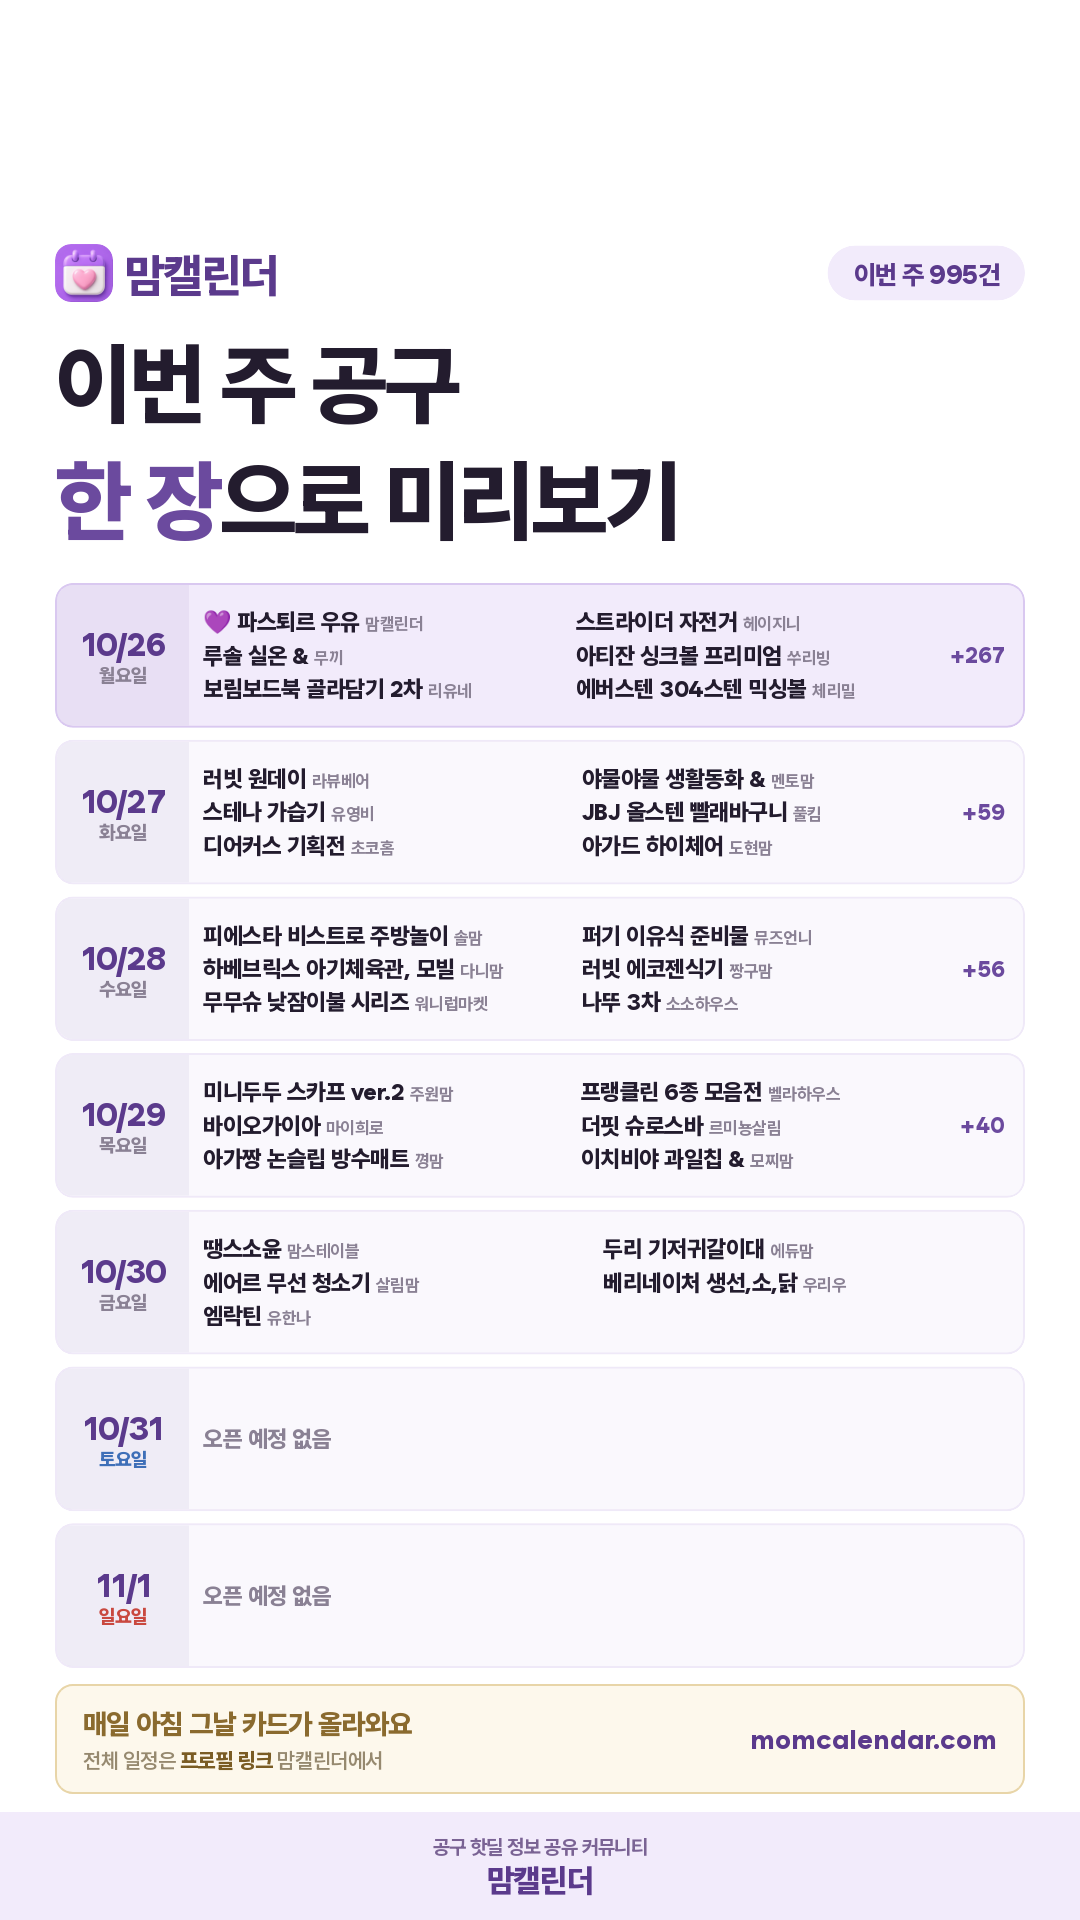
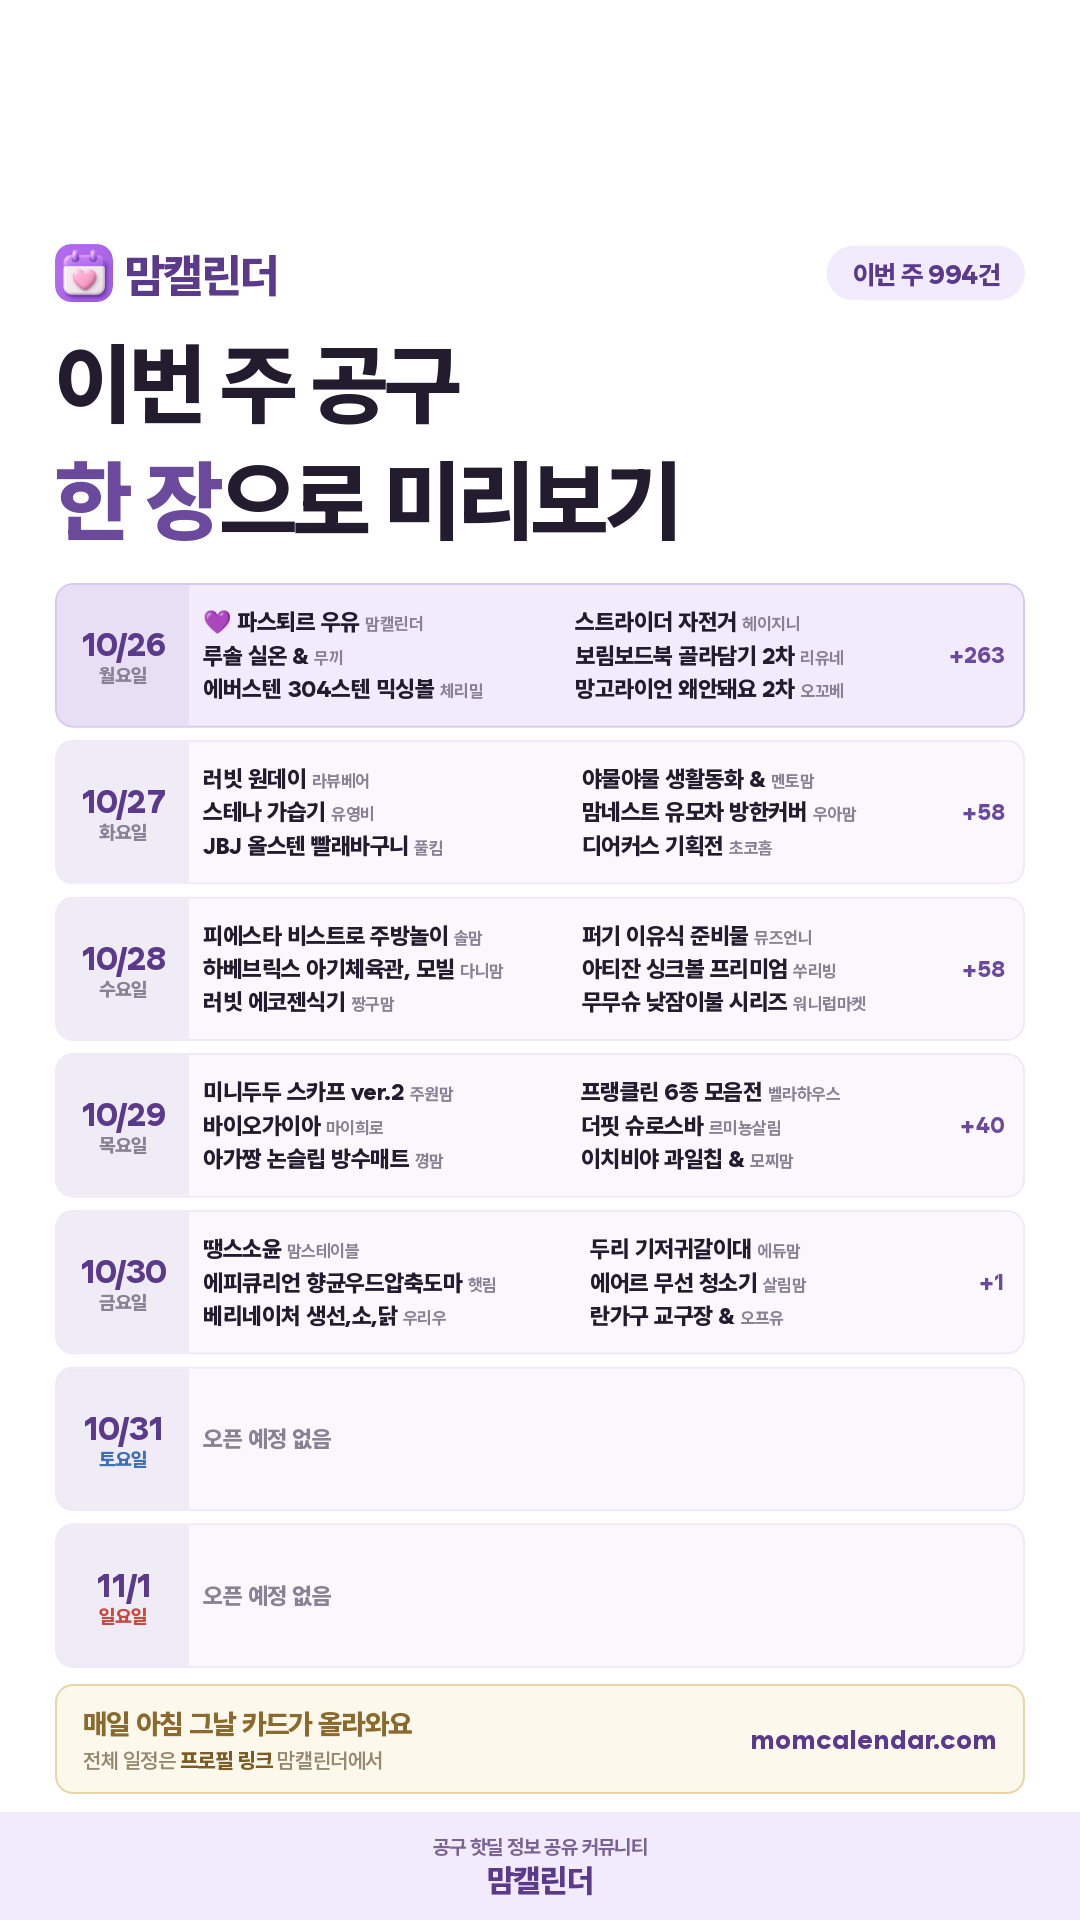
아침 인스타 카드 (2026-10-26)

diff --git a/daily/2026-10-26.html b/daily/2026-10-26.html
@@ -19,7 +19,7 @@ textarea{width:100%;height:260px;border:1px solid #E3DCEF;border-radius:10px;pad
 .todo p{font-size:12.5px;color:#6B6379;line-height:1.75;margin-top:6px}
 .todo a{color:#5B2E8C;font-weight:700}
 </style></head><body>
-<div class="hd"><div class="wrap"><h1>10월 26일(월) 인스타 카드</h1><p>주간예고 · week 995</p></div></div>
+<div class="hd"><div class="wrap"><h1>10월 26일(월) 인스타 카드</h1><p>주간예고 · week 994</p></div></div>
 <div class="wrap">
   
   <div class="card"><img src="./2026-10-26.png" alt="오늘 공구 카드"></div>
@@ -27,7 +27,7 @@ textarea{width:100%;height:260px;border:1px solid #E3DCEF;border-radius:10px;pad
   <div class="card">
     <textarea id="cap" readonly>이번 주 뭐가 열리는지 요일별로 정리했어요
 
-이번 주(10/26~11/1) 오픈 예정 995건
+이번 주(10/26~11/1) 오픈 예정 994건
 
 ━━━━━━━━━━━━━━
 
@@ -35,32 +35,31 @@ textarea{width:100%;height:260px;border:1px solid #E3DCEF;border-radius:10px;pad
 · 파스퇴르 우유 — 맘캘린더 @momcal_
 · 스트라이더 자전거 — 헤이지니
 · 루솔 실온 &amp; 냉장 이유식, 아기반찬 — 무끼
-· 아티잔 싱크볼 프리미엄 모델 — 쑤리빙
 · 보림보드북 골라담기 2차 — 리유네
 · 에버스텐 304스텐 믹싱볼 — 체리밀
 · 망고라이언 왜안돼요 2차 — 오꼬베
 · 네오플램 베큐씰 진공 밀폐용기 — 이지피지
-…외 265건
+…외 262건
 
 🗓 10/27(화) 오픈
 · 러빗 원데이 — 라뷰베어
 · 야물야물 생활동화 &amp; PLUS — 멘토맘
 · 스테나 가습기 — 유영비
+· 맘네스트 유모차 방한커버 + 아기띠 워머 — 우아맘
 · JBJ 올스텐 빨래바구니 (청담,메종드) — 풀킴
 · 디어커스 기획전 — 초코홈
 · 아가드 하이체어 — 도현맘
-· 맘네스트 유모차 방한커버 + 아기띠 워머 — 우아맘
-…외 58건
+…외 57건
 
 🗓 10/28(수) 오픈
 · 피에스타 비스트로 주방놀이 — 솔맘
 · 퍼기 이유식 준비물 모음전 — 뮤즈언니
 · 하베브릭스 아기체육관, 모빌 — 다니맘
+· 아티잔 싱크볼 프리미엄 모델 — 쑤리빙
 · 러빗 에코젠식기 — 짱구맘
 · 무무슈 낮잠이불 시리즈 — 워니럽마켓
 · 나뚜 3차 — 소소하우스
-· 스테이프리 홈캠 — 페이보릿
-…외 55건
+…외 57건
 
 🗓 10/29(목) 오픈
 · 미니두두 스카프 ver.2 — 주원맘
@@ -69,15 +68,15 @@ textarea{width:100%;height:260px;border:1px solid #E3DCEF;border-radius:10px;pad
 · 더핏 슈로스바 — 르미뇽살림
 · 아가짱 논슬립 방수매트 — 꼉맘
 · 이치비야 과일칩 &amp; 요거트 까까 — 모찌맘
-· 엔에프락 트라이탄 밀폐용기 — 라온살림
-· 음식물처리기 — 반채영
-…외 38건
+…외 40건
 
 🗓 10/30(금) 오픈
 · 땡스소윤 — 맘스테이블
 · 두리 기저귀갈이대 — 에듀맘
+· 에피큐리언 향균우드압축도마 — 햇림
 · 에어르 무선 청소기 — 살림맘
 · 베리네이처 생선,소,닭 — 우리우
+· 란가구 교구장 &amp; 회전책장 — 오프유
 · 엠락틴 — 유한나
 
 
@@ -101,7 +100,7 @@ textarea{width:100%;height:260px;border:1px solid #E3DCEF;border-radius:10px;pad
 ⚠ 공구 일정은 판매자 사정에 따라 변경·조기마감될 수 있어요.
 
 #맘캘린더 #공구일정 #육아공구일정 #10월26일공구 #기저귀 #살림템 #공구소식 #아기간식 #공구마감 #수유용품 #공구추천 #스트라이더 #주니 #탁가온</textarea>
-    <div class="meta">1300자</div>
+    <div class="meta">1288자</div>
     <button class="btn btn2" onclick="cp('cap','캡션')">캡션 복사</button>
   </div>
   <div class="card">
@@ -133,12 +132,12 @@ https://open.kakao.com/o/gr2kJhCh
 
 ─────────────
 
-10월 26일(월), 인스타 셀러들이 오늘 여는 공구 460건을 모아왔어요.
-오늘 끝나는 공구가 216건이라 아래쪽도 같이 확인해 보세요.
+10월 26일(월), 인스타 셀러들이 오늘 여는 공구 454건을 모아왔어요.
+오늘 끝나는 공구가 214건이라 아래쪽도 같이 확인해 보세요.
 
 오늘 공구 브랜드: NEW · 가이타이너 · 데코아르 · 루프트럼 · 매직쉐프 · 무아스 · 믹서기 · 바이타믹스 · 블렌더의 · 스팀 · 신일 · 아기드라이기 · 이노크아든 · 이지클린 · 초경량 · 캐논 · 케틀팟 · 코닥 · 탄소매트 · 패존 · 한경희 · 한일 · 헤이홈 · RU21 · 가꾸기 · 감비환 · 그로우미 · 뉴트리폰스 · 닥터라인 · 닥터파이토 · 담백하루 · 더리틀스 · 더블핏 · 레디바이옴 · 롱비다 · 리얼K · 리즈파이 · 망고맛 · 메가오메가 · 바이오메라
 
-■ 오늘 시작하는 공구 460건
+■ 오늘 시작하는 공구 454건
 
 [육아]
 · 247 큐브 — 벨리맘 (~11/1 마감)
@@ -154,7 +153,7 @@ https://open.kakao.com/o/gr2kJhCh
 · 낫또 네임테이프 — 여울맘 (~10/28 마감)
 · 낭만강아지 봉봉 — 위캔드홈 (~10/29 마감)
 · 내 친구 빠방이 + 탈것세트 — 럭키지후 (~10/28 마감)
-· 넘버블록스 보드북 — 워니럽마켓 (~11/2 마감)
+· 넘버블록스 보드북 — 워니럽마켓 (~10/29 마감)
 · 노벨하우스 오징어팝콘 소프트블럭 — 이현맘 (~10/30 마감)
 · 놈캐리어 — _juju.mom_ (~10/29 마감)
 · 담은수 — 율아맘 (~10/29 마감)
@@ -188,7 +187,7 @@ https://open.kakao.com/o/gr2kJhCh
 · 몽키버니 턱받이 — 미니똘 (~10/28 마감)
 · 문제집대신,, 도형보드게임 — 띠오맘 (~10/31 마감)
 · 물 아저씨 특별판 — 서점맘 (~10/29 마감)
-· 미래엔 하루 한 장 — 카롱맘 (~10/29 마감)
+· 미래엔 하루 한 장 — 카롱맘 (~11/2 마감)
 · 미미뻥 — 뽀민맘 (~10/29 마감)
 · 미소다 냉동·실온 유아식품 — candy_mom (~10/28 마감)
 · 미소다 냉동·실온 유아식품 — 캔디맘 (~10/28 마감)
@@ -229,7 +228,7 @@ https://open.kakao.com/o/gr2kJhCh
 · 아가드 토스비 하이체어 — 에듀맘 (~10/28 마감)
 · 아기상어 배변팬티 2차 — 주원맘 (~10/29 마감)
 · 아기상어 빛 테이블 — 건이맘 (~10/29 마감)
-· 아넬라 퓨레 — 결무맘 (~10/26 마감)
+· 아넬라 퓨레 — 결무맘 (~10/31 마감)
 · 아띠래빗 트립트랩 방석 — 우연맘 (~10/28 마감)
 · 아띠빠스 핸드머프, 바라클라바 — 우리우 (~10/29 마감)
 · 아람전래동화 요술항아리 — 리리맘 (~10/29 마감)
@@ -244,10 +243,9 @@ https://open.kakao.com/o/gr2kJhCh
 · 오가닉스 퓨레 — laego2025 (~10/29 마감)
 · 오가닉스퓨레 — 다미랜드 (~10/30 마감)
 · 오보기 수유앞치마 2차 — 다니맘 (~10/28 마감)
-· 올유베베 — 홍익마미 (~10/28 마감)
 · 올유베베 — 베베홈설 (~10/29 마감)
+· 올유베베 — 홍익마미 (~10/28 마감)
 · 올유베베 고쟁이, 모달티, 후드집업 — 다미랜드 (~10/29 마감)
-· 요미몬 플레이돌 — 푸푸네집 (~10/28 마감)
 · 인체 &amp; 인성 동화 — 토비맘 (~10/30 마감)
 · 일루와 아기텐트 — 소이맘 (~10/29 마감)
 · 자연동화 곡물도자기식판 — montesoeun (~10/28 마감)
@@ -263,7 +261,7 @@ https://open.kakao.com/o/gr2kJhCh
 · 코호코호 2차 신상 — 솔맘 (~10/29 마감)
 · 키즈엠 골라담기 — 우주맘마 (~10/29 마감)
 · 킨더픽 애플박스 — 푸푸네집 (~10/29 마감)
-· 킨즈 몬테소리 원목교구 — 도아로운 (~10/31 마감)
+· 킨즈 몬테소리 원목교구 — 도아로운 (~10/28 마감)
 · 탁가온 2차 — 페이보릿 (~10/28 마감)
 · 탁가온 에코젠 — 콩콩맘(이은지) (~10/29 마감)
 · 탁가온 에코젠 식기모음전 — 모찌맘 (~10/28 마감)
@@ -329,7 +327,6 @@ https://open.kakao.com/o/gr2kJhCh
 · 신경욱 작가 그릇 — 마마조 (~10/30 마감)
 · 아르코스 — 김하연 (~10/30 마감)
 · 아이앤어스 캡슐세제 2종 — 모꼬맘 (~10/29 마감)
-· 아티잔 싱크볼 프리미엄 모델 — 쑤리빙 (~10/30 마감)
 · 에버스텐 304스텐 믹싱볼 — 체리밀 (~10/31 마감)
 · 엔데이지홈 올인원 매트리스커버 — 헬룸 (~10/31 마감)
 · 오베 소창 수건 — artist._.mom (~10/29 마감)
@@ -339,7 +336,6 @@ https://open.kakao.com/o/gr2kJhCh
 · 윗클 청소포 &amp; 세정티슈 — 뭉실맘 (~10/29 마감)
 · 이지앤프리 이유식 보관용기 — 일벙부부 (~10/30 마감)
 · 주니 원터치 텀블러 — 이니맘 (~10/28 마감)
-· 카라멜코티지 2027 달력 — 넛베리홈 (~10/28 마감)
 · 코즈코즈 두부토퍼 — 쭈니놀이터 (~11/1 마감)
 · 코첼라 세라믹코팅 접시팬 SET — 태하태하 (~10/28 마감)
 · 크렛. 실리콘 브러쉬 깜작 — 메이비홈(박보연) (~10/29 마감)
@@ -371,7 +367,6 @@ https://open.kakao.com/o/gr2kJhCh
 · 뉴오리진 A2 우유 — 현이맘 (~10/29 마감)
 · 니즈미 스무디 — 뷰티팡팡밍빵 (~10/29 마감)
 · 다이어트 커피 — 양미라 (~10/28 마감)
-· 당일 산란 자연방사 무항생제 유정란 4차 — 길쭉이네 (~10/29 마감)
 · 도산회관 주먹밥 — 시크드 (~10/29 마감)
 · 도시농장 고구마 — 하윤맘마 (~10/29 마감)
 · 도시농장 당구마 — 홈그리나 (~10/31 마감)
@@ -414,12 +409,11 @@ https://open.kakao.com/o/gr2kJhCh
 · 웜곡물샐러드 — nana.dietstory (~10/28 마감)
 · 웰케이 채수팩 — 리리맘 (~10/29 마감)
 · 위드잇 가루데이+제로쌀면 — 룰루맘 (~10/29 마감)
-· 윙플라 CJ 기획전 — 요오리 (~10/28 마감)
 · 유기농 우리집티 작두콩차 — 진이키친 (~10/28 마감)
 · 유기농 자연방목 계란 — 알로아홈 (~10/30 마감)
 · 자연산 돌문어 — 마마스키친 (~10/31 마감)
 · 자일로드림 사탕 — 또담이네 (~10/28 마감)
-· 제로 소시지 3차 — 시니맘 (~11/2 마감)
+· 제로 소시지 3차 — 시니맘 (~10/29 마감)
 · 제주 유기농 간편 찐비트 — 날씬쿡 (~10/29 마감)
 · 진담김치 — 우연 (~10/28 마감)
 · 진맛김 조미김 — 밥먹으러왔서윤 (~10/29 마감)
@@ -449,7 +443,7 @@ https://open.kakao.com/o/gr2kJhCh
 · 그로우미 DHA — 리로네 (~10/29 마감)
 · 그로우미 오메가3 — 리로네 (~10/29 마감)
 · 뉴트리폰스 크레아틴 — BK Kim (~11/1 마감)
-· 닥터라인 헤모퀸즈 플러스 &amp; 헤모키즈 — 딸기약사 (~10/29 마감)
+· 닥터라인 헤모퀸즈 플러스 &amp; 헤모키즈 — 딸기약사 (~11/1 마감)
 · 닥터파이토 덴티백 — 태브로맘 (~10/30 마감)
 · 단백질 쌀빵 — 벨리맘 (~10/29 마감)
 · 담백하루 오메가 에센스 1000 &amp; 미니 600 — 베이지약사 (~10/29 마감)
@@ -478,7 +472,7 @@ https://open.kakao.com/o/gr2kJhCh
 · 스파톤 4차 — 드엘리사 (~10/28 마감)
 · 식이습관 — 린쥬하니 (~10/29 마감)
 · 싸이토핏 와사비잎 — 홍지우 (~10/29 마감)
-· 아마쿠라 초유 — 달달콩 (~10/29 마감)
+· 아마쿠라 초유 — 달달콩 (~11/1 마감)
 · 아연+비타민D 아품디 — 드림약사 (~11/1 마감)
 · 에스팀에쌍스 셀부삭 — 마그니우 (~11/1 마감)
 · 올퓨어멀티비타민 — 밥좀주이서 (~10/29 마감)
@@ -493,10 +487,9 @@ https://open.kakao.com/o/gr2kJhCh
 · 지켜텐&amp;지켜롱 — 먹조아맘 (~10/29 마감)
 · 츄어블 오메가3 — 주형 (~10/29 마감)
 · 칼로하스 케일x커큐민 — hongmerry__ (~10/28 마감)
-· 트루엔 카베SOD 위밸런스 — 아이엠약사 (~11/1 마감)
+· 트루엔 카베SOD 위밸런스 — 아이엠약사 (~10/29 마감)
 · 판토아프(아연+판토텐산) 피부영양제 — 뵤리약사 (~10/29 마감)
 · 퍼플 베르베린 — 강약사 (~11/1 마감)
-· 플라이밀 단백질쉐이크 — 이지테이블 (~10/28 마감)
 · 플라이밀 단백질쉐이크 — 이지테이블 (~10/28 마감)
 · 피로개선 비타민B — 샤인약사 (~10/29 마감)
 · 헤어메스 도펠헤르츠 — 이진주 (~10/29 마감)
@@ -597,7 +590,7 @@ https://open.kakao.com/o/gr2kJhCh
 · 대부도 펀지 키즈 풀빌라 — Hello롱초 (~10/29 마감)
 · 리솜 온천워터파크 &lt;전지점&gt; — 2brone (~10/29 마감)
 · 베르만 캐리어 28차 — 짐양다이어리 (~10/29 마감)
-· 삼척 쏠비치 — 우주맘마 (~10/30 마감)
+· 삼척 쏠비치 — 우주맘마 (~11/1 마감)
 · 서울랜드 — 로니맘(kikimi) (~10/29 마감)
 · 한화 설악 쏘라노 — 지원이랑놀자 (~10/29 마감)
 · 한화리조트 경주 — 제니져니 (~11/1 마감)
@@ -618,7 +611,7 @@ https://open.kakao.com/o/gr2kJhCh
 · 하프트리 1.5m / 1.9m — 누누맘 (~10/29 마감)
 · 회전책장 — 마이희로 (~10/29 마감)
 
-■ 오늘 마감하는 공구 216건
+■ 오늘 마감하는 공구 214건
 · 1mm 오리지널 탄소사매트 — 해달홈
 · 3세대 뉴이 S 키즈캐리어 트라이크 — 뽀아맘
 · 3일간 팝업 진짜 콜라겐 — 삐약약사
@@ -689,18 +682,16 @@ https://open.kakao.com/o/gr2kJhCh
 · 모두의육수 6차 — 홀리키
 · 목초우 소고기칩 — 서현이네 한온유
 · 몬치치 입모아컵 — 주원맘
-· 몬테소리 원목 교구 — 서원서아자매맘 육아
 · 몬테소리 원목 교구 — seo1sea_mom
+· 몬테소리 원목 교구 — 서원서아자매맘 육아
 · 무아스 퓨어 스팀 에어 대용량 — 마리에뜰
 · 물광선크림 — 카스테라마켓 곽혜진
 · 물아저씨 과학그림책 3차 — 미소데이즈
 · 뮤고랑 피규어 9종 세트 — 녕이네
-· 미라클 음주로그 — 미라클식탁 임은주
 · 미래가 보이는 과학 백과사전 — 위쓰담북
 · 밀크글라스 밀폐용기 단독세일 — 살림팝
 · 밀키요 깜공 — 탱이맘
 · 밀키요 요거트 — 옐로우맘
-· 바스 탈취제 13차 — 지니홈 이진영
 · 바스 탈취제 시리즈 — 지니하우스
 · 바예호 엑스트라버진 올리브오일 — 홈앤홈
 · 베러빈 네임테이프 — 축복맘
@@ -739,9 +730,8 @@ https://open.kakao.com/o/gr2kJhCh
 · 실리만 하모니 조리도구세트 — 지니하우스
 · 쌩쌩 2in1 킥보드 — 2ddou_
 · 아가방 퓨토 2종 시크릿 수딩젤.로션 — 친절마켓
-· 아넬라 — market_oli
 · 아넬라 — 우주맘마
-· 아넬라 퓨레 — 결무맘
+· 아넬라 — market_oli
 · 아늠달걀 — 젤로핏
 · 아쏘아쏘 조작북 8종 세트 — 하멍스맘
 · 아이더움 유아 마스크 &amp; 실리콘 약병 — 주환루아단아맘
@@ -816,13 +806,14 @@ https://open.kakao.com/o/gr2kJhCh
 · 퍼기 온풍기 — 쀼맘
 · 폴로 여성꽈배기 울 캐시미어 하프 지퍼 스웨터 — mikyeong_kang
 · 폴로 후드 집업, 드린대로 2주 — 뽀이맘
-· 폴프랜즈 양말 5+1 — 장소정
 · 폴프랜즈 양말 5+1 — 한우맘
+· 폴프랜즈 양말 5+1 — 장소정
 · 폴프랜즈 양말 모음전 — 이현찰퐁맘
 · 폴프랜즈양말 — 유니맘
 · 풍년 미쁨 스텐316 쌀통 — 로코하우스
 · 프레벨롱 요거트 — 뷰티팡팡밍빵
 · 프로살림 쪽쪽이살균기&amp;네일트리머&amp;귀마개 — 오늘도 육아 공구
+· 플라이밀 단백질쉐이크 — 이지테이블
 · 플레이돌 2차 인상전 — 푸푸네집
 · 핑크퐁 꼭지퍼즐 — 강윤맘
 · 하늘 다요트 젤리 — 하늘

diff --git a/daily/today.html b/daily/today.html
@@ -10,6 +10,6 @@ img{width:100%;max-width:540px;display:block;margin:0 auto;border-radius:12px;bo
 p{font-size:12.5px;color:#8A8A8A;padding:12px}</style></head><body>
 <p style="margin:0;padding:10px 14px;background:#FFE9E9;color:#B3261E;font-size:13px;font-weight:700;line-height:1.5">⚠ 📊 블로그 주간점검: 통계 못 읽음(로그인?) · 다음 주 예약 0/7 — scratchpad/blog_weekly_report.md</p><p style="margin:0;padding:10px 14px;background:#FFE9E9;color:#B3261E;font-size:13px;font-weight:700;line-height:1.5">⚠ 손님 오류제보 5건이 답을 기다려요 — 가장 오래된 것 15일째 (익명: 키즐키즐 시리얼 간식당 인스타 공구없음…) · 관리자 💌 제보/문의 탭</p><p style="margin:0;padding:10px 14px;background:#FFE9E9;color:#B3261E;font-size:13px;font-weight:700;line-height:1.5">⚠ 스레드 답글 승인 대기 4건 (가장 오래된 것 2026-10-25) — 올릴지 봐주세요</p><p style="margin:0;padding:10px 14px;background:#FFE9E9;color:#B3261E;font-size:13px;font-weight:700;line-height:1.5">⚠ 📱 앱 심사: 테스트플라이트 심사 중 (2026. 10. 26. 오전 9:11)</p><p style="margin:0;padding:10px 14px;background:#FFE9E9;color:#B3261E;font-size:13px;font-weight:700;line-height:1.5">⚠ 🔴 사이트 오류 레이더 1건: 우회로 중 서버5xx 1h 0·24h 1 — 세션에서 select * from error_radar()</p>
 <h1>10/26(월) 오늘 공구 캘린더</h1>
-<img src="./today.png?v=1792975386672" alt="10/26(월) 오늘 공구 캘린더">
+<img src="./today.png?v=1792976431266" alt="10/26(월) 오늘 공구 캘린더">
 <p>매일 아침 자동으로 새로 그려집니다 · <a href="https://momcalendar.com">맘캘린더</a></p>
 </body></html>

diff --git a/daily/hotdeal.html b/daily/hotdeal.html
@@ -1,3 +1,3 @@
 <!DOCTYPE html><html lang="ko"><head><meta charset="UTF-8"><meta name="viewport" content="width=device-width,initial-scale=1"><meta name="robots" content="noindex"><title>오늘 핫딜 카드 2026-10-26</title>
 <style>body{margin:0;background:#3A3145;color:#fff;font-family:sans-serif;text-align:center;padding:14px}img{max-width:100%;height:auto;border-radius:12px}p{font-size:14px;color:#C9BFD8}</style></head>
-<body><p>2026-10-26 오늘 핫딜 카드 · 길게 눌러 저장 · 매일 아침 07:40 갱신</p><img src="hotdeal.png?v=1792975391612" alt="오늘 핫딜 카드"></body></html>
+<body><p>2026-10-26 오늘 핫딜 카드 · 길게 눌러 저장 · 매일 아침 07:40 갱신</p><img src="hotdeal.png?v=1792976436703" alt="오늘 핫딜 카드"></body></html>
